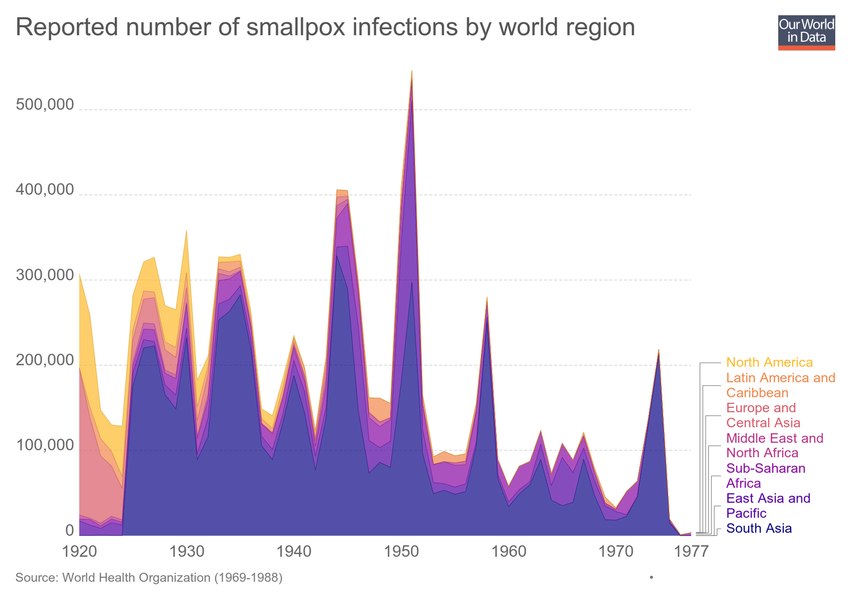
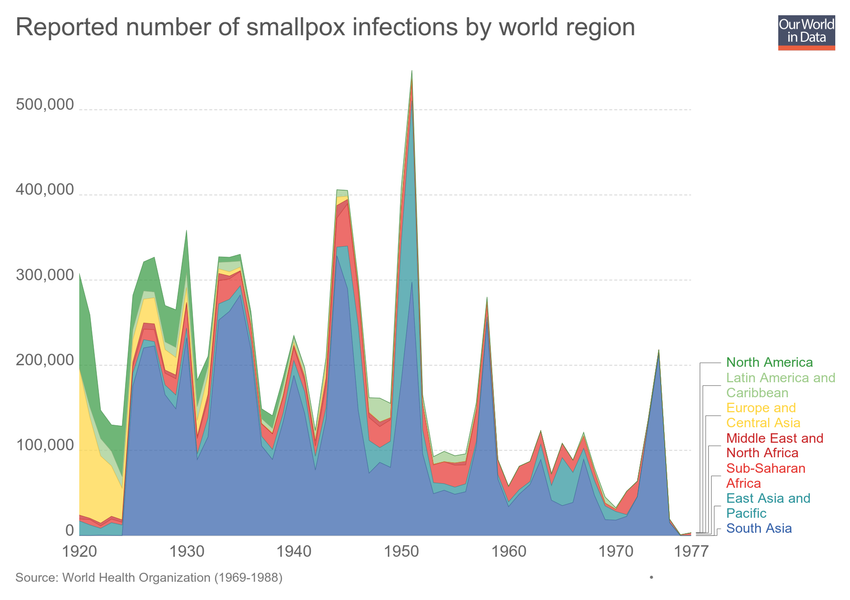
Updating chart reported-number-of-smallpox-infections-by-world-region

Changed region(s): [[0.0918, 0.12, 0.8259, 0.9], [0.8565, 0.6, 0.9788, 0.9]]

diff --git a/grapher/reported-number-of-smallpox-infections-by-world-region.html b/grapher/reported-number-of-smallpox-infections-by-world-region.html
@@ -1,4 +1,4 @@
-<!doctype html><html><head><meta name="viewport" content="width=device-width, initial-scale=1" /><title>Reported number of smallpox infections by world region - Our World in Data</title><meta name="description" content="An interactive visualization from Our World in Data." /><link rel="canonical" href="https://ourworldindata.org/grapher/reported-number-of-smallpox-infections-by-world-region" /><meta property="fb:app_id" content="1149943818390250" /><meta property="og:url" content="https://ourworldindata.org/grapher/reported-number-of-smallpox-infections-by-world-region" /><meta property="og:title" content="Reported number of smallpox infections by world region" /><meta property="og:description" content="An interactive visualization from Our World in Data." /><meta property="og:image" content="https://ourworldindata.org/grapher/exports/reported-number-of-smallpox-infections-by-world-region.png?v=1" /><meta property="og:image:width" content="850" /><meta property="og:image:height" content="600" /><meta property="og:site_name" content="Our World in Data" /><meta name="twitter:card" content="summary_large_image" /><meta name="twitter:site" content="@OurWorldInData" /><meta name="twitter:creator" content="@OurWorldInData" /><meta name="twitter:title" content="Reported number of smallpox infections by world region" /><meta name="twitter:description" content="An interactive visualization from Our World in Data." /><meta name="twitter:image" content="https://ourworldindata.org/grapher/exports/reported-number-of-smallpox-infections-by-world-region.png?v=1" /><style>
+<!doctype html><html><head><meta name="viewport" content="width=device-width, initial-scale=1" /><title>Reported number of smallpox infections by world region - Our World in Data</title><meta name="description" content="An interactive visualization from Our World in Data." /><link rel="canonical" href="https://ourworldindata.org/grapher/reported-number-of-smallpox-infections-by-world-region" /><meta property="fb:app_id" content="1149943818390250" /><meta property="og:url" content="https://ourworldindata.org/grapher/reported-number-of-smallpox-infections-by-world-region" /><meta property="og:title" content="Reported number of smallpox infections by world region" /><meta property="og:description" content="An interactive visualization from Our World in Data." /><meta property="og:image" content="https://ourworldindata.org/grapher/exports/reported-number-of-smallpox-infections-by-world-region.png?v=2" /><meta property="og:image:width" content="850" /><meta property="og:image:height" content="600" /><meta property="og:site_name" content="Our World in Data" /><meta name="twitter:card" content="summary_large_image" /><meta name="twitter:site" content="@OurWorldInData" /><meta name="twitter:creator" content="@OurWorldInData" /><meta name="twitter:title" content="Reported number of smallpox infections by world region" /><meta name="twitter:description" content="An interactive visualization from Our World in Data." /><meta name="twitter:image" content="https://ourworldindata.org/grapher/exports/reported-number-of-smallpox-infections-by-world-region.png?v=2" /><style>
         html, body {
             height: 100%;
             margin: 0;
@@ -20,8 +20,8 @@
         }
     </style><noscript><style>
                     figure { display: none !important; }
-                </style></noscript><link rel="stylesheet" href="https://ourworldindata.org/grapher/assets/commons.bundle.dcbbe53805c487d5e57617b10ac73a8a.css" /><link rel="preload" href="/grapher/data/variables/97488.json?v=1" as="fetch" crossorigin /></head><body class="singleChart"><figure data-grapher-src="/grapher/reported-number-of-smallpox-infections-by-world-region"></figure><noscript id="fallback"><img src="/grapher/exports/reported-number-of-smallpox-infections-by-world-region.svg" /><p>Interactive visualization requires JavaScript</p></noscript><script src="https://cdn.polyfill.io/v2/polyfill.min.js?features=es6,fetch"></script><script src="https://ourworldindata.org/grapher/assets/commons.bundle.bf155bbb85458868bcfd.js"></script><script src="https://ourworldindata.org/grapher/assets/charts.bundle.bf155bbb85458868bcfd.js"></script><script>
-        var jsonConfig = {"map":{"projection":"World","colorSchemeLabels":[],"colorSchemeValues":[],"customNumericColors":[],"customCategoryColors":{},"customCategoryLabels":{},"customHiddenCategories":{}},"tab":"chart","slug":"reported-number-of-smallpox-infections-by-world-region","type":"StackedArea","title":"Reported number of smallpox infections by world region","xAxis":{"scaleType":"linear"},"yAxis":{"min":0,"scaleType":"linear"},"version":1,"hasMapTab":false,"stackMode":"absolute","dimensions":[{"display":{"unit":"cases","shortUnit":""},"property":"y","variableId":97488}],"isAutoSlug":true,"hasChartTab":true,"isPublished":true,"selectedData":[{"index":0,"entityId":294},{"index":0,"entityId":34620},{"index":0,"entityId":300},{"index":0,"entityId":301},{"index":0,"entityId":289},{"index":0,"entityId":342},{"index":0,"entityId":302}],"addCountryMode":"disabled","baseColorScheme":"Plasma","id":2761};
+                </style></noscript><link rel="stylesheet" href="https://ourworldindata.org/grapher/assets/commons.bundle.dcbbe53805c487d5e57617b10ac73a8a.css" /><link rel="preload" href="/grapher/data/variables/97488.json?v=2" as="fetch" crossorigin /></head><body class="singleChart"><figure data-grapher-src="/grapher/reported-number-of-smallpox-infections-by-world-region"></figure><noscript id="fallback"><img src="/grapher/exports/reported-number-of-smallpox-infections-by-world-region.svg" /><p>Interactive visualization requires JavaScript</p></noscript><script src="https://cdn.polyfill.io/v2/polyfill.min.js?features=es6,fetch"></script><script src="https://ourworldindata.org/grapher/assets/commons.bundle.bf155bbb85458868bcfd.js"></script><script src="https://ourworldindata.org/grapher/assets/charts.bundle.bf155bbb85458868bcfd.js"></script><script>
+        var jsonConfig = {"id":2761,"map":{"projection":"World","colorSchemeLabels":[],"colorSchemeValues":[],"customNumericColors":[],"customCategoryColors":{},"customCategoryLabels":{},"customHiddenCategories":{}},"tab":"chart","slug":"reported-number-of-smallpox-infections-by-world-region","type":"StackedArea","title":"Reported number of smallpox infections by world region","xAxis":{"scaleType":"linear"},"yAxis":{"min":0,"scaleType":"linear"},"version":2,"hasMapTab":false,"stackMode":"absolute","dimensions":[{"display":{"unit":"cases","shortUnit":""},"property":"y","variableId":97488}],"hasChartTab":true,"isPublished":true,"selectedData":[{"index":0,"entityId":294},{"index":0,"entityId":34620},{"index":0,"entityId":300},{"index":0,"entityId":301},{"index":0,"entityId":289},{"index":0,"entityId":342},{"index":0,"entityId":302}],"addCountryMode":"disabled","baseColorScheme":"stackedAreaDefault"};
         var figure = document.getElementsByTagName("figure")[0];
         try {
             window.App = {};
